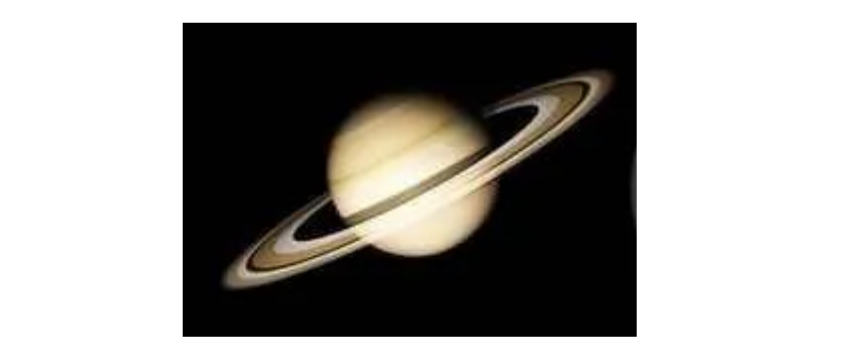
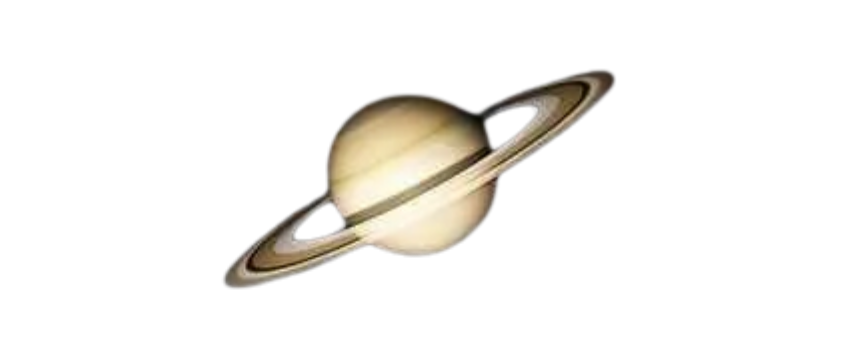
HSM: fix planet image aspect ratio + update Saturn
- drawPlanetImage: cover-crop from center using 9-argument drawImage
- Maintains aspect ratio, no more oval stretching
- Images wider than tall: crop left/right sides
- Images taller than wide: crop top/bottom
- Added naturalWidth === 0 guard for incomplete loads
- Updated Saturn.png with transparent background version

diff --git a/src/comet/AtlasCometMap.tsx b/src/comet/AtlasCometMap.tsx
@@ -315,17 +315,42 @@ function drawPlanetImage(
   glow?: { color: string; blur: number }
 ) {
   const img = getPlanetImage(body);
-  if (!img || !img.complete) return false;
+  if (!img || !img.complete || img.naturalWidth === 0) return false;
 
   ctx.save();
   if (glow) {
     ctx.shadowColor = glow.color;
     ctx.shadowBlur = glow.blur;
   }
+
+  // Clip to circle
   ctx.beginPath();
   ctx.arc(center.x, center.y, radius, 0, Math.PI * 2);
   ctx.clip();
-  ctx.drawImage(img, center.x - radius, center.y - radius, radius * 2, radius * 2);
+
+  // Cover crop: maintain aspect ratio, crop from center
+  const destSize = radius * 2;
+  const srcAspect = img.naturalWidth / img.naturalHeight;
+  const destAspect = 1; // square destination
+
+  let sx = 0, sy = 0, sw = img.naturalWidth, sh = img.naturalHeight;
+
+  if (srcAspect > destAspect) {
+    // Image wider than tall — crop sides
+    sw = img.naturalHeight * destAspect;
+    sx = (img.naturalWidth - sw) / 2;
+  } else {
+    // Image taller than wide — crop top/bottom
+    sh = img.naturalWidth / destAspect;
+    sy = (img.naturalHeight - sh) / 2;
+  }
+
+  ctx.drawImage(
+    img,
+    sx, sy, sw, sh,           // source crop (centered)
+    center.x - radius, center.y - radius, destSize, destSize  // destination
+  );
+
   ctx.restore();
   return true;
 }
